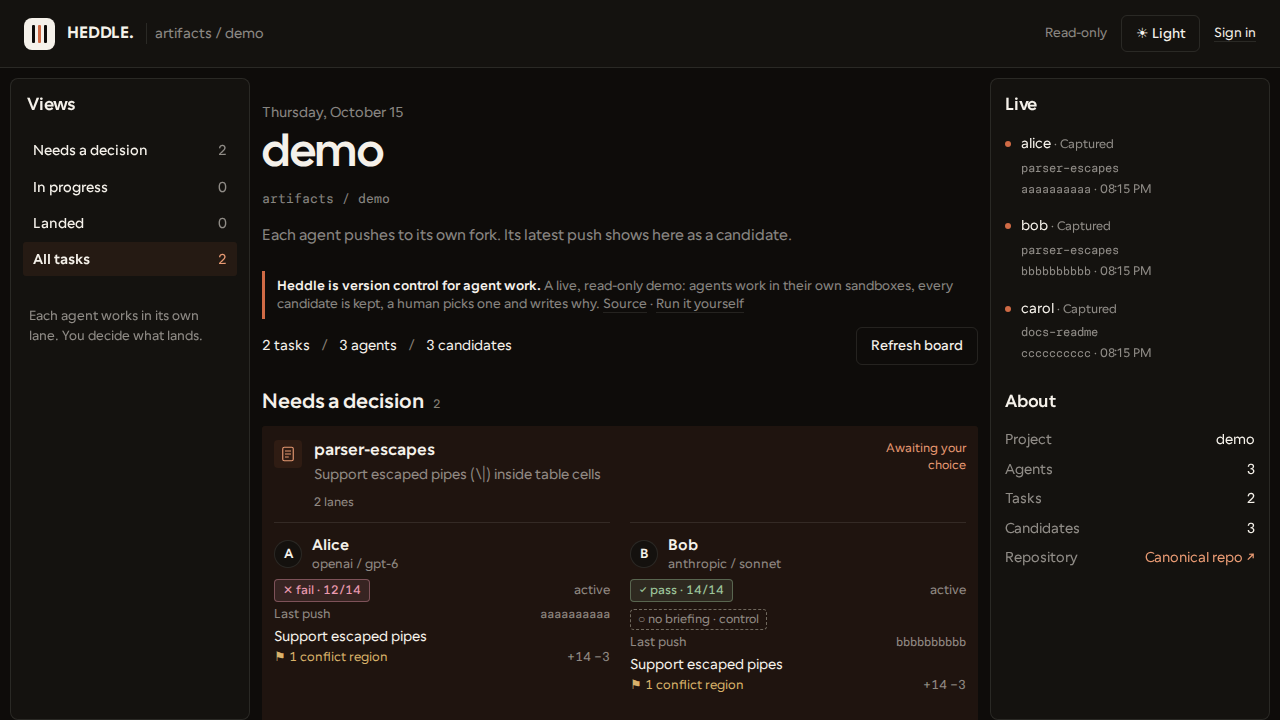
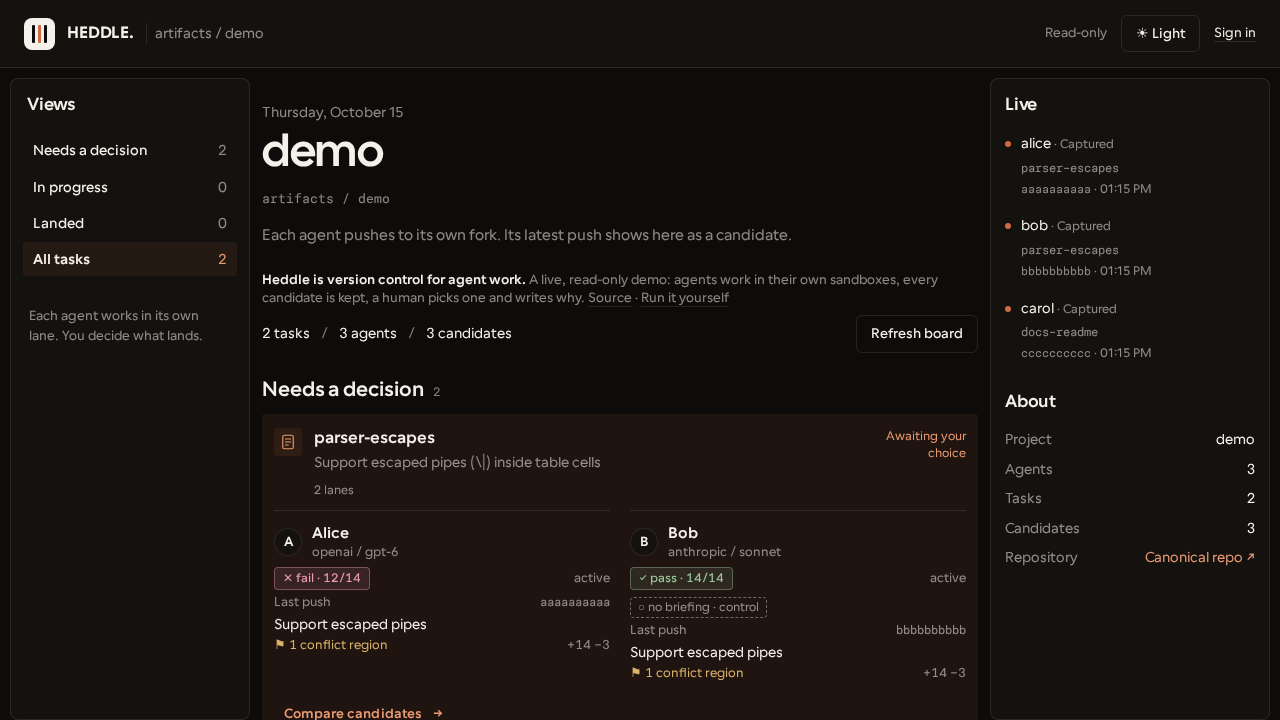
ui: drop the accent stripe from the visitor intro (#72)

diff --git a/ui/style.css b/ui/style.css
@@ -133,7 +133,7 @@ main { max-width: 1320px; margin: 0 auto; padding: 18px 28px 56px; }
 .column-heading { display: flex; justify-content: space-between; align-items: center; font-size: 12.5px; color: var(--muted); margin-bottom: 8px; }
 .task-column h2 a { text-decoration: none; }
 .intent { color: var(--muted); font-size: 15px; margin: 4px 0; }
-.visitor-intro { max-width: 900px; margin: 4px 0 8px; padding: 6px 12px; border-left: 3px solid var(--ember, #cf6a45); font-size: 13px; line-height: 1.4; color: var(--muted); }
+.visitor-intro { max-width: 900px; margin: 4px 0 8px; padding: 0; font-size: 13px; line-height: 1.4; color: var(--muted); }
 .visitor-intro strong { font-weight: 600; color: var(--text, inherit); }
 .reviewed-by { font-size: 12.5px; color: var(--muted); margin: 6px 0 2px; }
 .lane-card { border-top: 1px solid var(--stroke-subtle); padding: 10px 2px 8px; line-height: 1.4; }
